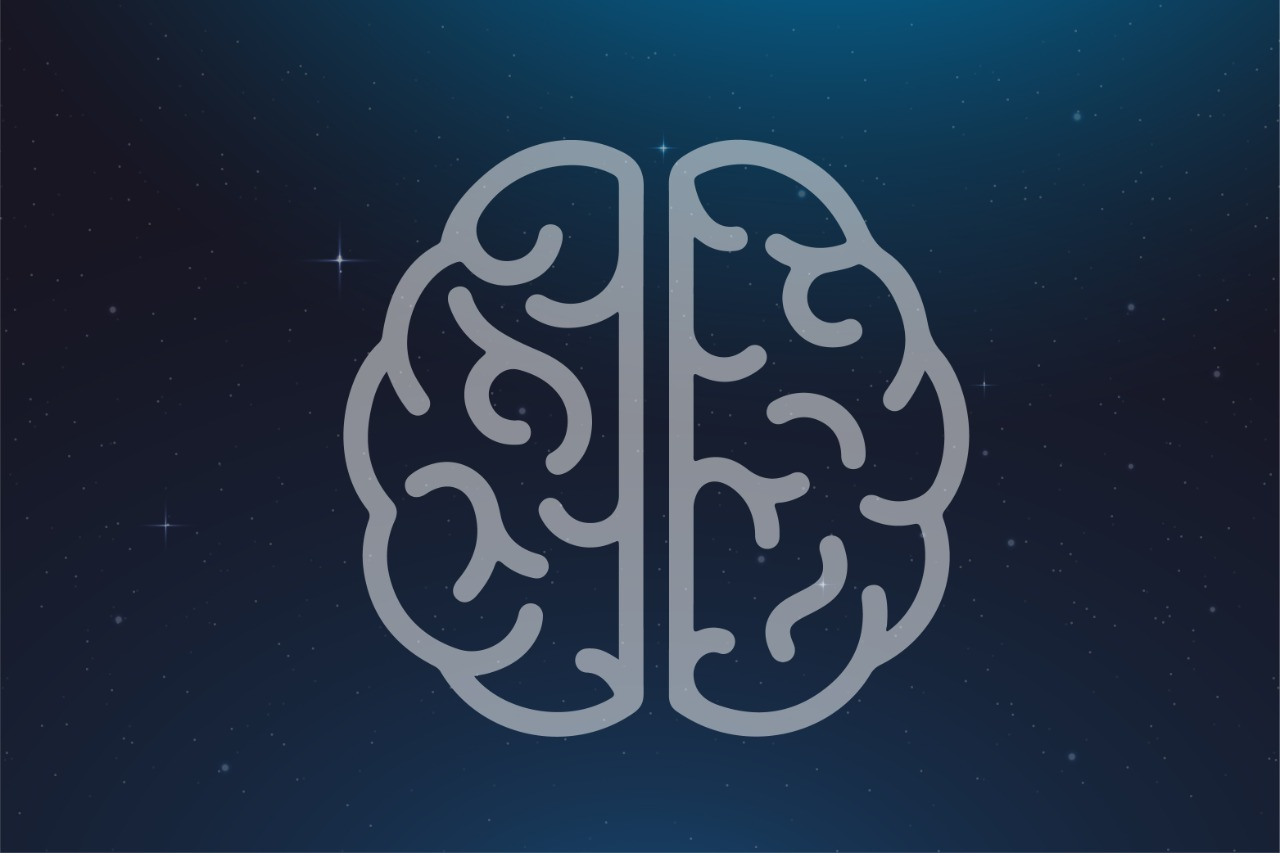
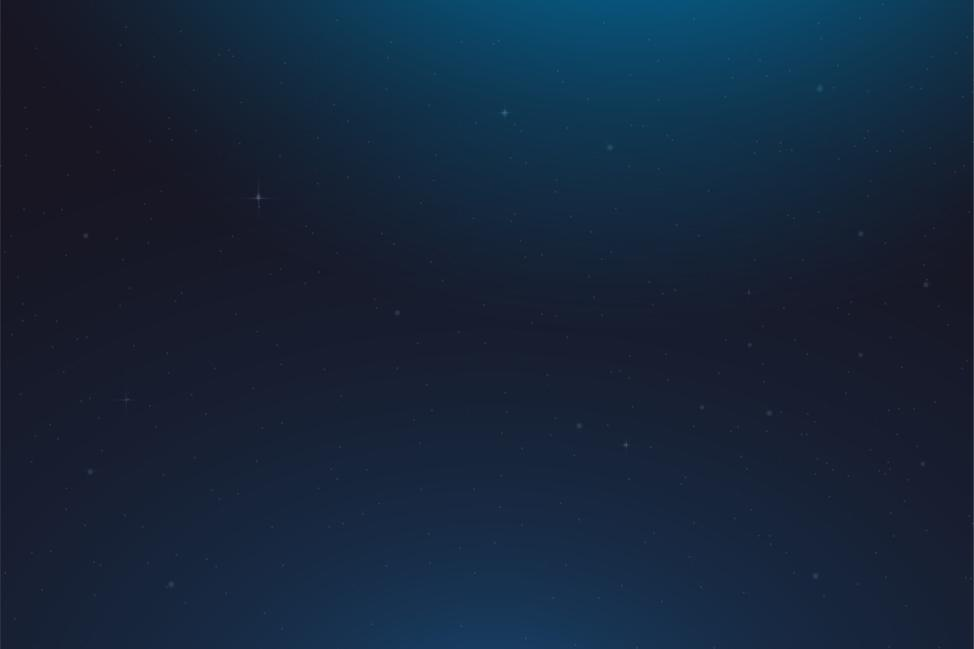
Segundo Avance

Changed region(s): [[0.2464, 0.1541, 0.77, 0.8629], [0.2464, 0.2773, 0.2772, 0.3082]]

diff --git a/contactenos.html b/contactenos.html
@@ -25,7 +25,7 @@
         <li class="nav-item">
           <a class="nav-link" href="aboutus.html">Sobre Nosotros</a>
         </li>
-		  <li class="nav-item">
+		 <li class="nav-item">
           <a class="nav-link" href="contactenos.html">Contáctenos</a>
         </li>
 		    <li class="nav-item">
@@ -44,33 +44,59 @@
 	
 </header>
 	<section id= "Info">
+		<div class="titulo" id="titulo">
+			<h1>Contáctenos&nbsp;</h1>
+		</div>
 		<div class="container">
 			<div class= "row container-fluid"> 
 			
 				<article 
 				 class="col-md-4 col-sm-12"> 
-				<div class="container AUICONO"><img src="img/Mision_copia.svg" width="100" alt="mision" class="img-fluid"></div>
-					<div class="AboutUs-Info container"><h3>MISIÓN</h3> <p>Ser una empresa de máxima confianza para nuestros clientes, ofreciéndoles soluciones a sus problemas tecnicos y brindar los mejores componentes para dar un servicio de alta calidad.</p></div>
+				<div class="container AUICONO"></div>
+					<div class="AboutUs-Info container"><h3>Redes Sociales&nbsp;</h3> 
+						<table id="tablamaciza">
+							<tr>
+							  <td> 
+									<a href="#" target="_blank"><img src="img/twitter2.png" width="60" alt="mision" class="img-fluid"></a>
+								</td>
+							</tr>
+							<tr>
+							  <td>
+									<a href="#" target="_blank"><img src="img/Facebook2.png" width="40" alt="mision" class="img-fluid"></a>
+								</td>
+							</tr>
+							<tr>
+							  <td>
+									<a href="#" target="_blank"><img src="img/instagram2.png" width="60" alt="mision" class="img-fluid"></a>
+								</td>
+							</tr>
+						</table>
+				  </div>
 				</article>	
 				
 				<article 
 				 class="col-md-4 col-sm-12"> 
-					<div class="container AUICONO"><img src="img/Vision copia.svg" width="100" alt="mision" class="img-fluid"></div>
-					<div class="AboutUs-Info container"><h3>VISIÓN</h3> <p>Que todas las personas del pais tengan acceso a componentes de calidad, expandirnos por todo el pais para cubrir estas necesidades y ser reconocidos a nivel mundial como empresa lider de tecnologia.</p></div>
+					<div class="container AUICONO"></div>
+					<div class="AboutUs-Info container"><h3>Número de teléfono</h3> 
+					  <h2>
+							+504 99999999
+						</h2>
+					  <h2>
+							+504 99999999
+						</h2>
+					  <h2>
+							+504 99999999
+						</h2>
+				  </div>
 				</article>	
 				
 				<article 
 				 class="col-md-4 col-sm-12"> 
-					<div class="container AUICONO"><img src="img/Creatividad_copia.svg" width="100" alt="mision" class="img-fluid"></div>
-					<div class="AboutUs-Info container"><h3>CREATIVIDAD</h3>  
+					<div class="container AUICONO"></div>
+					<div class="AboutUs-Info container"><h3>Dirección</h3>  
 						
-						<ul>
-							<li>Creativad </li>
-							<li>Responsabilidad</li>
-							<li>Trabajo en Equipo</li>
-							<li>Integridad</li>
-						</ul>
-						</div>
+					<iframe src="https://www.google.com/maps/embed?pb=!1m18!1m12!1m3!1d3870.491366366631!2d-87.17629708534218!3d14.048136990156213!2m3!1f0!2f0!3f0!3m2!1i1024!2i768!4f13.1!3m3!1m2!1s0x8f6fbcfacdb96c17%3A0x94999a679eabaa4f!2sUNITEC!5e0!3m2!1ses!2shn!4v1646979394444!5m2!1ses!2shn" width="250" height="300" style="border:0;" allowfullscreen="" loading="lazy"></iframe>
+				  </div>
 				</article>	
 			
 			

diff --git a/css/style.css b/css/style.css
@@ -1,14 +1,19 @@
-
+/*esto*/
+@import url('https://fonts.googleapis.com/css2?family=League+Gothic&family=Raleway:wght@100;300;400&family=Smooch+Sans&display=swap%27');
 body {
-     font-family: Segoe UI;
+    font-family: 'Raleway', sans-serif;
 	font-size: 14px;
 	color: #000;
 	background-image: url("../img/cerebro.jpg");
 	background-repeat: no-repeat;
 	background-size: cover;
 	height: 100%;
-}
 
+}
+h1, h2, h3, h4, h5, h6{
+	font-family: 'League Gothic', sans-serif;
+}
+/*fin*/
 .navbar-costume{
 	
 	background-color: #30363d;
@@ -123,22 +128,94 @@ footer{
 	padding: 0;
 }
 
+#Info .titulo h1{
+	font-size: 60px; 
+	text-align: center;
+	color: white;
+	padding-bottom: 30px;
+	font-weight: 800;
+	
+}
 
+td{
+	padding-bottom: 60px;
+}
+#Info .AboutUs-Info h2{
+	color: white;
+	
+}
+/*styles sign-up */
 
+.input-box {
+    width: 100%;
+    margin: 0 0 13px;
+    border: none;
+    border-radius: 13px;
+    padding: 11px;
+}
 
+.sign-up {
+    display: flex;
+    justify-content: center;
+    flex-direction: column;
+    height: 463px;
+    background-color: #fff0f0;
+    padding: 22px;
+    border-radius: 13px;
+}
 
+#sign-up {
+    display: flex;
+    height: 100vh;
+    align-items: center;
+}
 
+.sign-up h2{
+    font-size: 19px;
+    color: #2c2c2cdd;
+    font-weight: 600;
+}
 
+.sign-buttons {
+    display: flex;
+    margin: 27px 0;
+    justify-content: center;
+}
 
+.sign-buttons a{
+    color: #400606;
+    text-decoration: none;
+}
 
+.btnsign-up {
+    margin: 0 18px;
+    width: 220px;
+    border: none;
+    background-color: #e39292;
+    color: #400606;
+    border-radius: 13px;
+    font-size: 17px;
+    font-weight: 700;
+}
 
+.btnsign-up:hover {
+    color: #ffffff;
+    background-color: #702d2d;
+}
 
+.sign-social{
+    display: flex;
+    align-content: center;
+    justify-content: center;
+    padding: 10px 0;
+}
 
-
-
-
-
-
-
-
-
+.sign-social a {
+    color: #a77171;
+    font-size: 35px;
+    margin: 0 56px;
+}
+.sign-social a:hover {
+    color: #5e3333;
+    cursor: pointer;
+}

diff --git a/SignIn.html b/SignIn.html
@@ -1,0 +1,64 @@
+<!doctype html>
+<html>
+<head>
+	<meta charset="utf-8">
+	<meta name="viewport" content="width=device-width, initial-scale=1.0">
+	<title>CGC - Sign In</title>
+	<link href="css/bootstrap.min.css" rel="stylesheet">
+	<link href="css/style.css" rel="stylesheet">
+	<script src="https://kit.fontawesome.com/3be50036e8.js" crossorigin="anonymous"></script>
+</head>
+
+	<body>
+		<section id="sign-up">
+
+			<div class="container">
+				<div class="row">
+					<article class="col-6">
+						<img class="img-fluid" alt="logo" src="img/Builders1.png">
+					</article>
+					<article class="col-6">
+
+						<div class="container sign-up">
+
+							<div class="container sign-info">
+								<div class="row">
+									<article class="col-4 col-sm-12">
+										<h2>Correo electrónico:</h2> 
+									</article>
+									<article class="col-8 col-sm-12">
+										<input class="input-box" placeholder="correo electrónico" type="text" name="name">
+									</article>
+								</div>
+								<div class="row ">
+									<article class="col-4 col-sm-12">
+										 <h2>Contraseña:</h2>
+									</article>
+									<article class="col-8 col-sm-12">
+										 <input class="input-box" placeholder="Contraseña" type="text" name="name">
+									</article>
+								</div>
+							</div>
+							
+							<div class="container-fluid sign-buttons">
+								<button class="btn btnsign-up">Registro</button>
+								<button class="btn btnsign-up" ><a href="index.html">Iniciar Sesión</a></button>
+							</div>
+
+
+							<div class="container-fluid sign-social">
+								<a href="#"><i class="fa-brands fa-facebook"></i></a>
+								<a href="#"><i class="fa-brands fa-instagram"></i></a> 
+								<a href="#"><i class="fa-brands fa-twitter"></i></a>
+							</div>
+
+
+						</div>
+					</article>
+				</div>
+			</div>
+
+		</section>
+	</body>
+
+</html>

diff --git a/index.html b/index.html
@@ -6,6 +6,7 @@
 <title>CGC - Index</title>
 <link href="css/bootstrap.min.css" rel="stylesheet">
 <link href="css/style.css" rel="stylesheet">
+<link href="https://fonts.googleapis.com/css?family=Open+Sans" rel="stylesheet">
 	
 </head>
 
@@ -29,6 +30,13 @@
         </li>
         <li class="nav-item">
           <a class="nav-link" href="aboutus.html">Sobre Nosotros</a>
+        </li>
+		  <li class="nav-item">
+          <a class="nav-link" href="contactenos.html">Contáctenos</a>
+        </li>
+		
+		  <li class="nav-item">
+          <a class="nav-link" href="SignIn.html">Cuenta</a>
         </li>
         
        
